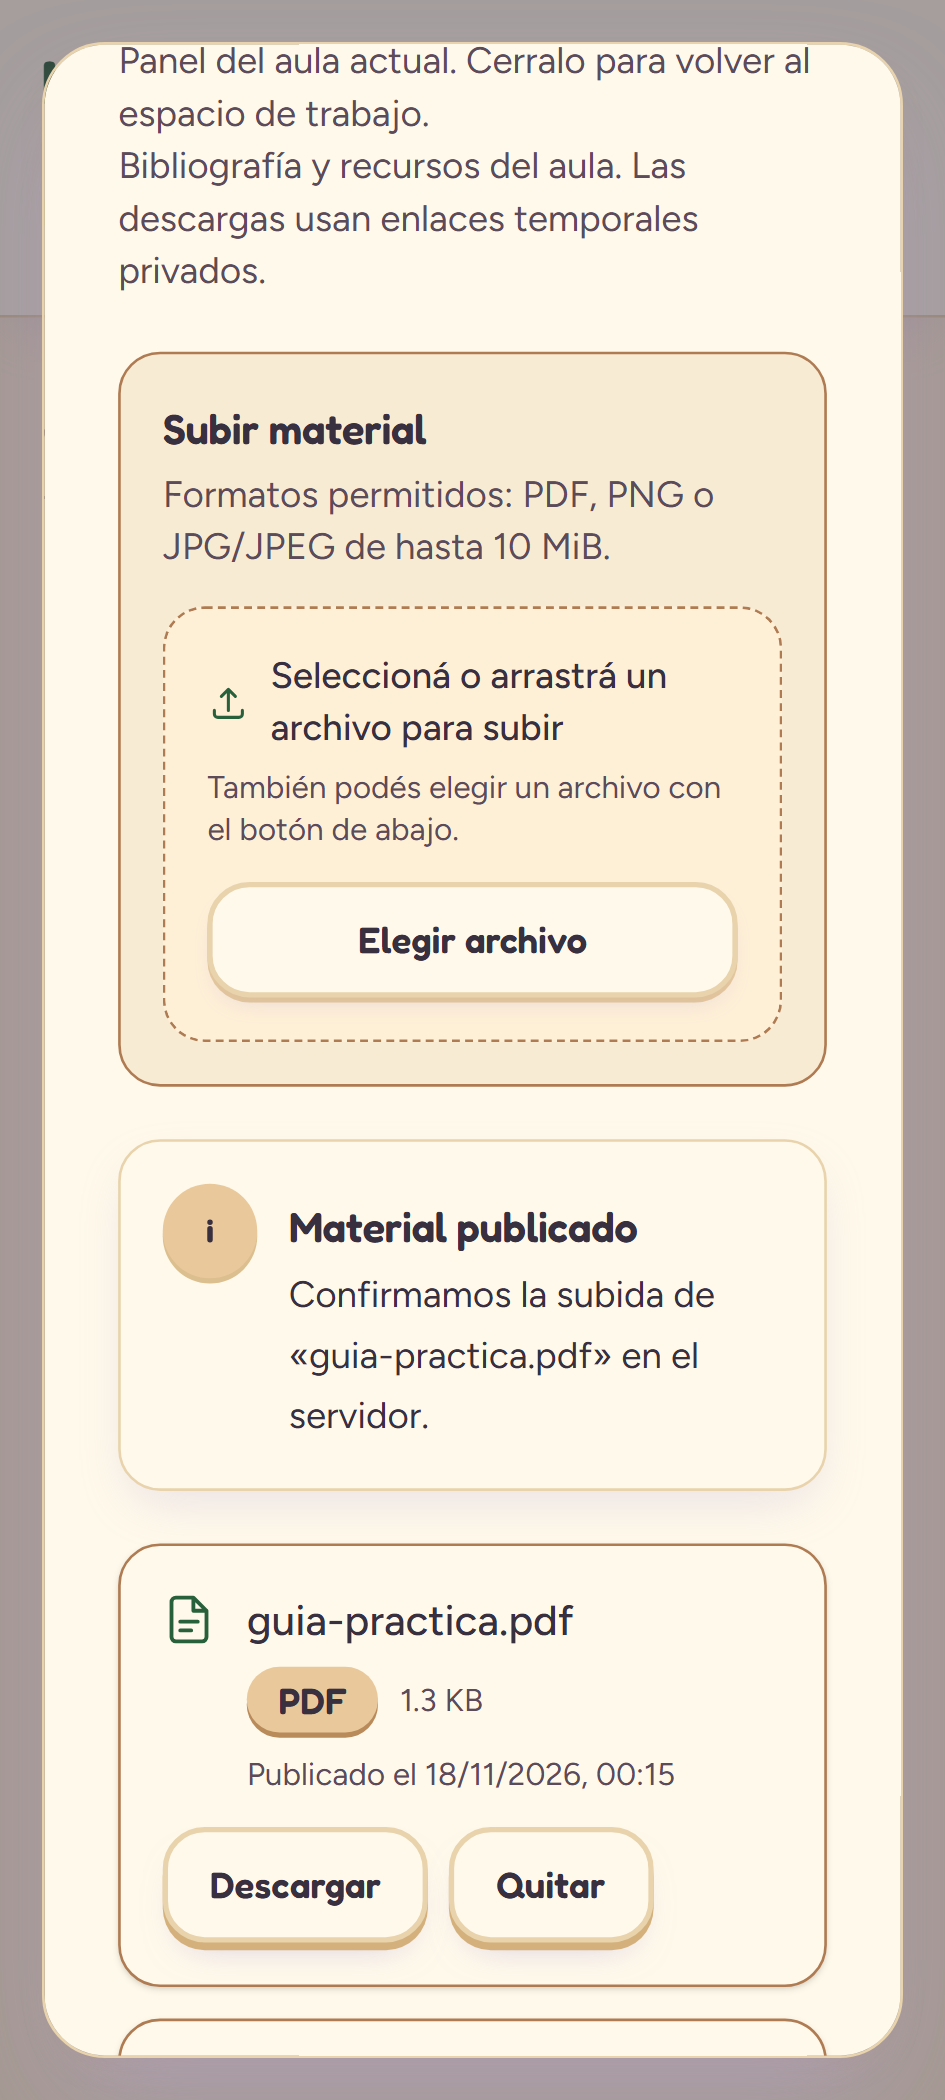
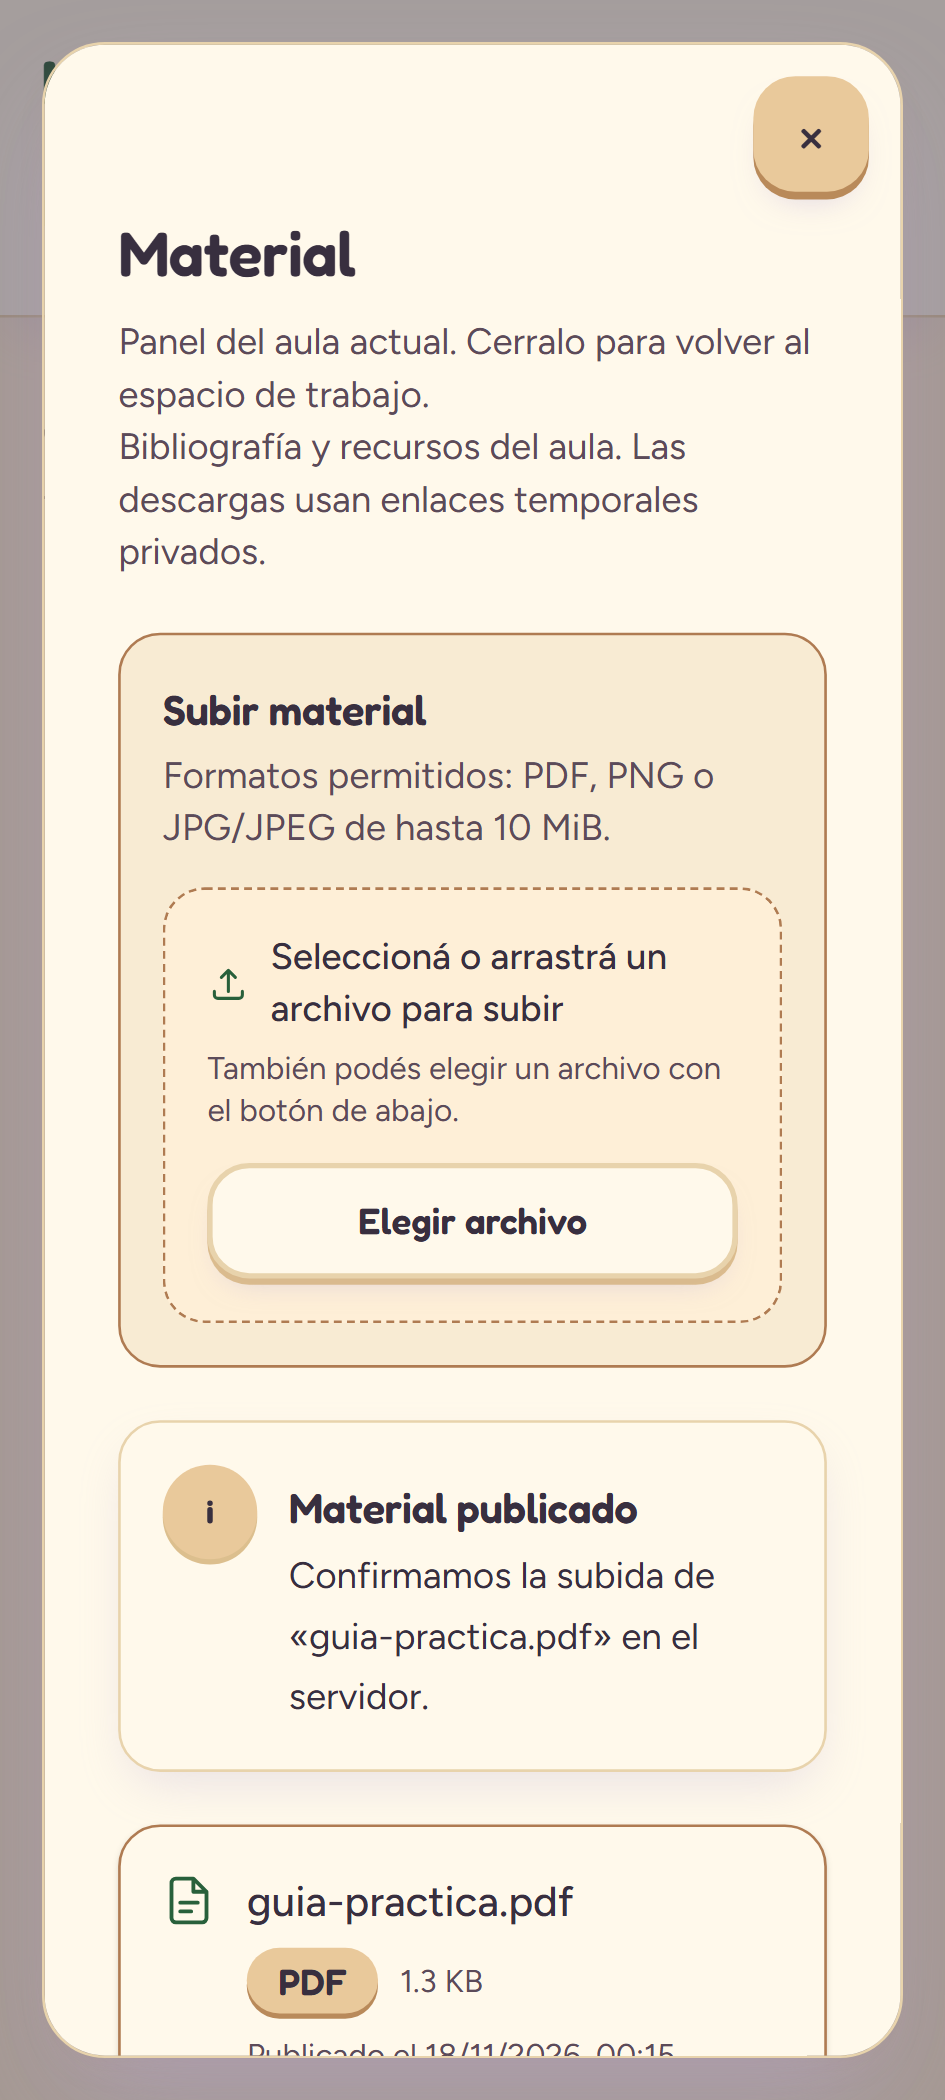
fix(materials): resolve RDD audit findings F-01 through F-08

diff --git a/src/features/classrooms/materials/material-panel.tsx b/src/features/classrooms/materials/material-panel.tsx
@@ -1,4 +1,4 @@
-import { useState, type ReactNode } from 'react';
+import { useEffect, useRef, useState, type ReactNode } from 'react';
 import { useQuery, useQueryClient } from '@tanstack/react-query';
 import { useParams } from 'react-router';
 import { ApiError } from '@/api/errors';
@@ -78,6 +78,16 @@ function MaterialPanelContent({
     readonly title: string;
     readonly description: string;
   } | null>(null);
+  const unmountAbortRef = useRef<AbortController | null>(null);
+
+  useEffect(() => {
+    const controller = new AbortController();
+    unmountAbortRef.current = controller;
+    return () => {
+      controller.abort();
+      unmountAbortRef.current = null;
+    };
+  }, []);
 
   const userId = context.status === 'ready' ? context.userId : null;
   const canManage =
@@ -99,7 +109,10 @@ function MaterialPanelContent({
     enabled: userId !== null,
   });
 
-  async function reconcileMaterials() {
+  async function reconcileMaterials(resetPage = false) {
+    if (resetPage) {
+      setPage(1);
+    }
     if (userId === null) return;
     await queryClient.invalidateQueries({
       predicate: createClassroomMaterialsPredicate(userId, classroomId),
@@ -107,17 +120,18 @@ function MaterialPanelContent({
   }
 
   async function handleUploaded(filename: string) {
-    setPage(1);
     setActionNotice({
       kind: 'success',
       title: materialMessages.upload.confirmedTitle,
       description: materialMessages.upload.confirmedDescription(filename),
     });
-    await reconcileMaterials();
+    await reconcileMaterials(true);
   }
 
   async function handleDownload(material: MaterialDto) {
     if (downloadingId !== null) return;
+    const signal = unmountAbortRef.current?.signal;
+    if (signal?.aborted) return;
     setActionNotice(null);
     setDownloadingId(material.id);
     try {
@@ -125,10 +139,18 @@ function MaterialPanelContent({
         client,
         classroomId,
         material.id,
+        { signal },
       );
+      if (signal?.aborted) return;
       // Open server-issued short-lived signed URL without storing or logging it.
       window.open(url, '_blank', 'noopener,noreferrer');
     } catch (error) {
+      if (
+        (error instanceof Error || error instanceof DOMException) &&
+        error.name === 'AbortError'
+      ) {
+        return;
+      }
       const description =
         error instanceof ApiError
           ? error.userMessage
@@ -139,7 +161,9 @@ function MaterialPanelContent({
         description,
       });
     } finally {
-      setDownloadingId(null);
+      if (!signal?.aborted) {
+        setDownloadingId(null);
+      }
     }
   }
 
@@ -159,6 +183,7 @@ function MaterialPanelContent({
       });
       await reconcileMaterials();
     } catch (error) {
+      setPendingConfirmId(null);
       const description =
         error instanceof ApiError
           ? error.userMessage
@@ -168,9 +193,23 @@ function MaterialPanelContent({
         title: materialMessages.list.removeErrorTitle,
         description,
       });
+      if (error instanceof ApiError && error.kind === 'not-found') {
+        await reconcileMaterials();
+      }
     } finally {
       setRemovingId(null);
     }
+  }
+
+  if (context.status === 'error') {
+    return (
+      <ErrorState
+        headingLevel="h3"
+        title={materialMessages.errorTitle}
+        description={context.error.userMessage}
+        onRetry={context.retry}
+      />
+    );
   }
 
   if (context.status === 'pending' || query.isPending) {
@@ -214,7 +253,8 @@ function MaterialPanelContent({
           client={client}
           classroomId={classroomId}
           onUploaded={handleUploaded}
-          onReconcileRequired={reconcileMaterials}
+          onReconcileRequired={() => reconcileMaterials(true)}
+          onInteraction={() => setActionNotice(null)}
         />
       )}
 

diff --git a/src/features/classrooms/materials/material-panel.test.tsx b/src/features/classrooms/materials/material-panel.test.tsx
@@ -337,4 +337,92 @@ describe('MaterialPanel', () => {
       expect(store.read()).toHaveLength(0);
     });
   });
+
+  it('keeps the hidden file input out of tab order and manages focus on remove cancel', async () => {
+    const initialItem: ClassroomMaterialItem = {
+      id: MATERIAL_ID,
+      classroomId: CLASSROOM_ID,
+      authorId: profile.id,
+      filename: 'foco-accesible.pdf',
+      contentType: 'application/pdf',
+      sizeBytes: 1024,
+      createdAt: '2026-11-18T03:00:00.000Z',
+    };
+    const store = createClassroomMaterialsStore({
+      classroomId: CLASSROOM_ID,
+      initialItems: [initialItem],
+    });
+    mswServer.use(...store.handlers);
+
+    renderMaterialPanel({ role: 'TEACHER' });
+    expect(await screen.findByText('foco-accesible.pdf')).toBeInTheDocument();
+
+    const fileInput = document.querySelector(
+      'input[type="file"]',
+    ) as HTMLInputElement;
+    expect(fileInput).toHaveAttribute('tabindex', '-1');
+    expect(fileInput).toHaveAttribute('aria-hidden', 'true');
+
+    const removeButton = screen.getByRole('button', { name: 'Quitar' });
+    removeButton.focus();
+    fireEvent.click(removeButton);
+
+    const cancelButton = await screen.findByRole('button', {
+      name: 'Cancelar',
+    });
+    expect(cancelButton).toHaveFocus();
+
+    fireEvent.click(cancelButton);
+    expect(await screen.findByRole('button', { name: 'Quitar' })).toHaveFocus();
+  });
+
+  it('shows uncertain 503 upload alert, ErrorState on initial failure, and StaleDataNotice on refresh failure', async () => {
+    const store = createClassroomMaterialsStore({ classroomId: CLASSROOM_ID });
+    store.failNext('list', {
+      status: 500,
+      body: {
+        code: 'INTERNAL_ERROR',
+        message: 'Server error',
+        correlationId: 'req-list-500',
+      },
+    });
+    mswServer.use(...store.handlers);
+    renderMaterialPanel({ role: 'TEACHER' });
+
+    expect(
+      await screen.findByText('No pudimos cargar el material'),
+    ).toBeInTheDocument();
+
+    fireEvent.click(screen.getByRole('button', { name: 'Reintentar' }));
+    expect(
+      await screen.findByText('Todavía no hay material publicado'),
+    ).toBeInTheDocument();
+
+    store.failNext('upload', {
+      status: 503,
+      body: {
+        code: 'SERVICE_UNAVAILABLE',
+        message: 'Timeout',
+        correlationId: 'req-upload-503',
+      },
+    });
+    const fileInput = document.querySelector(
+      'input[type="file"]',
+    ) as HTMLInputElement;
+    fireEvent.change(fileInput, {
+      target: {
+        files: [
+          new File(['%PDF'], 'incierto.pdf', { type: 'application/pdf' }),
+        ],
+      },
+    });
+    fireEvent.click(screen.getByRole('button', { name: 'Subir archivo' }));
+
+    expect(
+      await screen.findByText('No pudimos confirmar si el archivo se guardó'),
+    ).toBeInTheDocument();
+    expect(
+      screen.getByRole('button', { name: 'Actualizar lista' }),
+    ).toBeInTheDocument();
+  });
 });

diff --git a/src/features/classrooms/materials/material-list.tsx b/src/features/classrooms/materials/material-list.tsx
@@ -1,4 +1,4 @@
-import type { ReactNode } from 'react';
+import { useEffect, useRef, type ReactNode } from 'react';
 import { Badge } from '@/components/ui/badge';
 import { Button } from '@/components/ui/button';
 import { formatInstant } from '@/lib/dates';
@@ -37,6 +37,20 @@ export function MaterialList({
   onCancelRemove,
   renderItemSlot,
 }: MaterialListProps) {
+  const removeButtonRefs = useRef<Record<string, HTMLButtonElement | null>>({});
+  const cancelButtonRefs = useRef<Record<string, HTMLButtonElement | null>>({});
+  const previousConfirmId = useRef<string | null>(null);
+
+  useEffect(() => {
+    const prev = previousConfirmId.current;
+    previousConfirmId.current = pendingConfirmId;
+    if (pendingConfirmId && pendingConfirmId !== prev) {
+      cancelButtonRefs.current[pendingConfirmId]?.focus();
+    } else if (!pendingConfirmId && prev) {
+      removeButtonRefs.current[prev]?.focus();
+    }
+  }, [pendingConfirmId]);
+
   return (
     <ul
       aria-label={materialMessages.list.regionLabel}
@@ -108,6 +122,9 @@ export function MaterialList({
 
                 {canManage && !isConfirming && (
                   <Button
+                    ref={(node) => {
+                      removeButtonRefs.current[item.id] = node;
+                    }}
                     type="button"
                     variant="outline"
                     size="sm"
@@ -160,6 +177,9 @@ export function MaterialList({
                       : materialMessages.list.confirmRemoveSubmit}
                   </Button>
                   <Button
+                    ref={(node) => {
+                      cancelButtonRefs.current[item.id] = node;
+                    }}
                     type="button"
                     variant="outline"
                     size="sm"

diff --git a/src/features/classrooms/materials/material-upload.tsx b/src/features/classrooms/materials/material-upload.tsx
@@ -22,6 +22,7 @@ export interface MaterialUploadSectionProps {
   readonly classroomId: string;
   readonly onUploaded: (filename: string) => Promise<void> | void;
   readonly onReconcileRequired: () => Promise<void> | void;
+  readonly onInteraction?: () => void;
 }
 
 type UploadPhase =
@@ -52,6 +53,7 @@ export function MaterialUploadSection({
   classroomId,
   onUploaded,
   onReconcileRequired,
+  onInteraction,
 }: MaterialUploadSectionProps) {
   const inputId = useId();
   const hintId = useId();
@@ -65,6 +67,7 @@ export function MaterialUploadSection({
 
   function selectCandidateFile(file: File | undefined) {
     if (!file || phase.kind === 'uploading') return;
+    onInteraction?.();
     setPhase({ kind: 'idle' });
     const check = validateMaterialFile(file);
     if (!check.ok) {
@@ -102,6 +105,7 @@ export function MaterialUploadSection({
 
     const controller = new AbortController();
     abortRef.current = controller;
+    onInteraction?.();
     setClientError(null);
     setPhase({ kind: 'uploading', filename: selectedFile.name });
 
@@ -196,7 +200,8 @@ export function MaterialUploadSection({
           id={inputId}
           type="file"
           accept=".pdf,application/pdf,image/png,image/jpeg"
-          aria-describedby={hintId}
+          tabIndex={-1}
+          aria-hidden="true"
           disabled={isUploading}
           onChange={handleFileChange}
           className="sr-only"
@@ -206,6 +211,7 @@ export function MaterialUploadSection({
           type="button"
           variant="outline"
           size="sm"
+          aria-describedby={hintId}
           disabled={isUploading}
           onClick={() => inputRef.current?.click()}
           className="shrink-0"

diff --git a/e2e/study-materials.spec.ts b/e2e/study-materials.spec.ts
@@ -207,6 +207,7 @@ test('teacher uploads, captures responsive views, downloads via signed URL, and 
     ),
   ).toBe(true);
 
+  await dialog.evaluate((el) => el.scrollTo(0, 0));
   await page.screenshot({
     path: `docs/assets/classrooms/study-materials-${width}.png`,
     fullPage: true,

diff --git a/changelogs/tracker-mati.md b/changelogs/tracker-mati.md
@@ -10,8 +10,8 @@
   3. Implemented `MaterialUploadSection` (drag-and-drop + accessible file picker, client pre-check, progress indicator, `AbortController` cancel & retry, `400`/`413`/`403`/`503` feedback), `MaterialList` (metadata, signed-URL download without persisting/logging URLs, teacher-only inline removal confirmation, and `renderItemSlot` extension point for `HU-BOT-001`), and `MaterialPanel` wired into `classroomPanelCatalog`, with 6 RTL integration tests (`material-panel.test.tsx`) and updated `classroom-workspace-panels.test.tsx`.
   4. Added Playwright E2E coverage (`e2e/study-materials.spec.ts`), captured `1280px` and `360px` screenshots under `docs/assets/classrooms/`, and updated `docs/classroom-panels.md`.
 - **Reason:** Allow teachers/staff to upload and remove classroom study materials and members to download them via server-issued short-lived signed URLs (`rules/activities-and-grading.md`, `rules/security.md`, `rules/error-handling-and-feedback.md`, `rules/ui-and-accessibility.md`, `rules/forms-and-validation.md`).
-- **Verification:** On Node `22.23.4` and pnpm `10.34.9`: `pnpm lint`, `pnpm typecheck`, `pnpm test` (59 files, 664 tests passed), `pnpm build` (`442` modules), `pnpm security:check`, `pnpm format:check`, Playwright `e2e/study-materials.spec.ts` (`4/4` desktop and mobile passed with zero CSP violations and zero horizontal overflow), and `git diff --check origin/develop..HEAD --` passed.
-- **Next step:** Run blind RDD audit and await explicit user approval before pushing or opening the PR against `develop`.
+- **Verification:** On Node `22.23.4` and pnpm `10.34.9`: `pnpm lint`, `pnpm typecheck`, `pnpm test` (59 files, 666 tests passed), `pnpm build` (`442` modules), `pnpm security:check`, `pnpm format:check`, focused Playwright `e2e/study-materials.spec.ts` (`4/4` desktop and mobile passed with zero CSP violations and zero horizontal overflow), and `git diff --check origin/develop..HEAD --` passed. Skipped/unavailable locally: full `pnpm e2e` suite (ran focused `e2e/study-materials.spec.ts` only) and `python3` checks (`scripts/ci/check_docs.py`, `scripts/ci/test_*.py`; `python3` unavailable on this Windows workstation, runs in Ubuntu CI). Blind RDD audit (`041a6c0`): fixed 1 BLOCKER (`F-01` `sr-only` file input tab order) and `F-02`–`F-08` warnings (focus management on remove confirm/cancel, `page=1` reset on `503` reconcile, download unmount abort, `context.status === 'error'` handling, `404` remove reconciliation & alert clearing, docs table fix, 360px scroll-to-top capture, and added tests).
+- **Next step:** Re-verify checks after bounded correction, emit audit receipt, and await explicit user approval before pushing or opening the PR against `develop`.
 
 ## 2026-11-18 — PR #84 review fixes (unmount submitting reset and 403 create reconciliation) (#30)
 

diff --git a/docs/classroom-panels.md b/docs/classroom-panels.md
@@ -2,9 +2,9 @@
 
 The classroom workspace mounts the reusable panel provider with backend A's
 `availablePanels`, **not action authorization**. The default production catalog
-registers nine panel entries with centralized titles and a shared, honest
-“Funcionalidad pendiente” state. Their business functionality belongs to separate
-stories; opening an entry does not imply that functionality is delivered.
+registers nine panel entries with centralized titles: `material` renders
+`MaterialPanel` (`#40`), while the remaining eight entries keep a shared, honest
+“Funcionalidad pendiente” state until their respective stories land.
 
 ## Approved scope reconciliation
 
@@ -18,7 +18,7 @@ the issue; team acceptance of the reconciled criterion remains part of PR review
 | Registered key | Title                |
 | -------------- | -------------------- |
 | `activities`   | Actividades          |
-| `material`     | Material             | `MaterialPanel` (study material upload, signed download, removal; #40) |
+| `material`     | Material             |
 | `grades`       | Calificaciones       |
 | `chat`         | Chat                 |
 | `notices`      | Avisos               |
